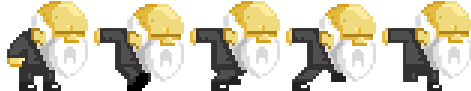
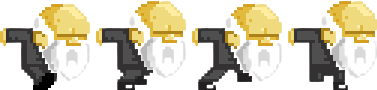
Meteor strike V.0.1

diff --git a/src/scenes/GameScene.js b/src/scenes/GameScene.js
@@ -2,11 +2,13 @@ import Phaser from "phaser";
 
 let player;
 let bg;
+let meteor1;
+let meteor2;
 let keyW;
 let keyA;
 let keyS;
 let keyD;
-let keyJump;
+
 
 class GameScene extends Phaser.Scene {
     constructor(test) {
@@ -17,43 +19,73 @@ class GameScene extends Phaser.Scene {
 
     preload() {
         this.load.spritesheet('player','src/image/Player.png',
-            { frameWidth: 94.2, frameHeight: 91 });
-        this.load.image('bg','src/image/Bg.jpg')
-    }
+            { frameWidth: 94.25, frameHeight: 90 });
+        this.load.image('bg','src/image/BG.jpg');
+        this.load.image('meteor','src/image/Meteor.png');
+
+     }
 
     create() {
-        player = this.physics.add.sprite(250, 500, 'player')
-        player.setCollideWorldBounds(true)
+        player = this.physics.add.sprite(250, 450, 'player').setDepth(20);
+        player.setCollideWorldBounds(true);
+    
+        this.anims.create({
+            key: 'playerAni',
+            frames: this.anims.generateFrameNumbers('player',{
+                start:0,
+                end:3
+            }),
+            duration: 50,
+            repeat: 1
+        })
 
-        bg = this.physics.add.image(0,200,'bg').setScale(0.25).setOrigin(0,0).setLayer(1)
+        bg = this.add.tileSprite(0,0,1000,720,'bg').setOrigin(0,0).setDepth(1);
+        
+        meteor1 = this.physics.add.image(1300,250,'meteor').setDepth(19).setSize(577,300);
+        meteor2 = this.physics.add.image(1300,500,'meteor').setDepth(18);
 
         keyW = this.input.keyboard.addKey(Phaser.Input.Keyboard.KeyCodes.W);
         keyA = this.input.keyboard.addKey(Phaser.Input.Keyboard.KeyCodes.A);
         keyS = this.input.keyboard.addKey(Phaser.Input.Keyboard.KeyCodes.S);
         keyD = this.input.keyboard.addKey(Phaser.Input.Keyboard.KeyCodes.D);
-        keyJump = this.input.keyboard.addKey(Phaser.Input.Keyboard.KeyCodes.SPACE);
+        
+        this.physics.add.collider(player, meteor1, ()=>{
+            this.scene.start('GameOver');
+        });
+        
+        this.physics.add.collider(player, meteor2, ()=>{
+            this.scene.start('GameOver');
+        });
+        
     }
-
+        
     update(delta, time) {
+        bg.tilePositionX += 2;
+    
+        if(1<2){meteor1.setVelocityX(-1000);}
+        if(1<2){meteor2.setVelocityX(-1000);}
 
         if(keyW.isDown){
-            player.setVelocityY(-500);
+            player.setVelocityY(-1000);
+            player.anims.play('playerAni',true);
         }else if(keyS.isDown){
-            player.setVelocityY(500);
+            player.setVelocityY(1000);
+            player.anims.play('playerAni',true);
         }else{
             player.setVelocityY(0);
         }
         if(keyA.isDown){
-            player.setVelocityX(-500);
+            player.setVelocityX(-1000);
+            player.anims.play('playerAni',true);
         }else if(keyD.isDown){
-            player.setVelocityX(500);
+            player.setVelocityX(1000);
+            player.anims.play('playerAni',true);
         }else{
             player.setVelocityX(0);
         }
-        if(keyJump.isDown){
-            player.setVelocityY(-500);
-            player.setVelocityY(500); 
-        } 
+
+       
+        
     }
 }
 export default GameScene;

diff --git a/src/scenes/GameOver.js b/src/scenes/GameOver.js
@@ -1,0 +1,41 @@
+import Phaser from "phaser";
+
+let gameOver;
+let reStart;
+let mainMenu;
+
+class GameOver extends Phaser.Scene {
+    constructor(test) {
+        super({
+            key: 'GameOver'
+        });
+    }
+
+    preload() {
+        this.load.image('gameOver','src/image/Gameover.jpg');
+        this.load.image('restart','src/image/Try.png');
+        this.load.image('mainmenu','src/image/Main.png');
+    }
+
+    create() {
+        gameOver = this.add.image(-50,-100,'gameOver').setScale(0.4).setOrigin(0,0).setDepth(1);
+        // reStart = this.add.image(500,500,'restart').setScale(0.5).setDepth(5);
+        // reStart.setInteractive();
+        // reStart.on('pointerup', ()=>{
+        //     this.scene.start('GameScene');
+            
+        // })
+        
+        // mainMenu = this.add.image(500,620,'mainmenu').setScale(0.3).setDepth(6);
+        // mainMenu.setInteractive();
+        // mainMenu.on('pointerup', ()=>{
+        //     this.scene.start('MainMenu');
+        // })
+      
+    }
+
+    update(delta, time) {
+        
+    }
+}
+export default GameOver;

diff --git a/src/scenes/MainMenu.js b/src/scenes/MainMenu.js
@@ -1,7 +1,8 @@
 import Phaser from "phaser";
 
 
-let buttonPlay;
+let buttonStart;
+let bg;
 
 class MainMenu extends Phaser.Scene {
     constructor(test) {
@@ -11,21 +12,23 @@ class MainMenu extends Phaser.Scene {
     }
 
     preload() {
-        this.load.image('play','src/image/input/play.png')
-        
+        this.load.image('start','src/image/Start.png');
+        this.load.image('bg','src/image/BG.jpg');
     }
 
     create() {
-        buttonPlay = this.add.image(250,300, 'play').setScale(0.2);
-        buttonPlay.setInteractive();
+        buttonStart = this.add.image(500,300, 'start').setScale(0.5).setDepth(5);
+        buttonStart.setInteractive();
 
-        buttonPlay.on('pointerup', ()=>{
+        buttonStart.on('pointerup', ()=>{
             this.scene.start('GameScene');
         })
+
+        bg = this.add.tileSprite(0,0,1000,720,'bg').setOrigin(0,0).setDepth(1);
     }
 
     update(delta, time) {
-        
+        bg.tilePositionX += 2;
     }
 }
 export default MainMenu;

diff --git a/src/main.js b/src/main.js
@@ -2,6 +2,7 @@ import 'phaser';
 import Phaser from 'phaser';
 import GameScene from './scenes/GameScene';
 import MainMenu from './scenes/MainMenu';
+import GameOver from './scenes/GameOver';
 
 
 const config = {
@@ -19,9 +20,9 @@ const config = {
         }
     },
     scene: [
+        MainMenu,
         GameScene,
-        MainMenu
-        
+        GameOver
     ],
     
     
